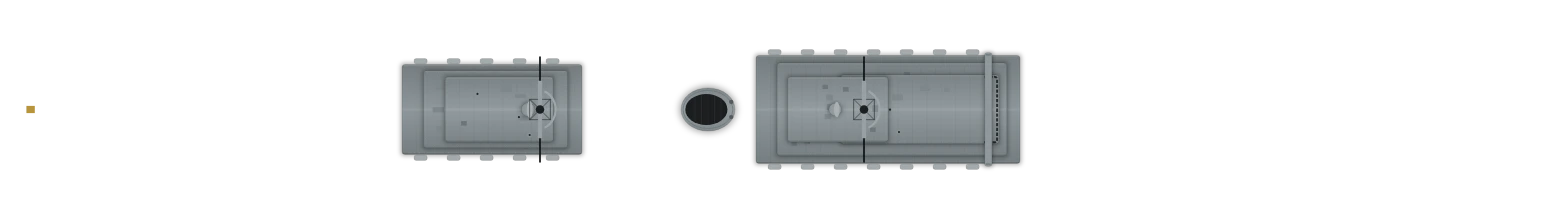
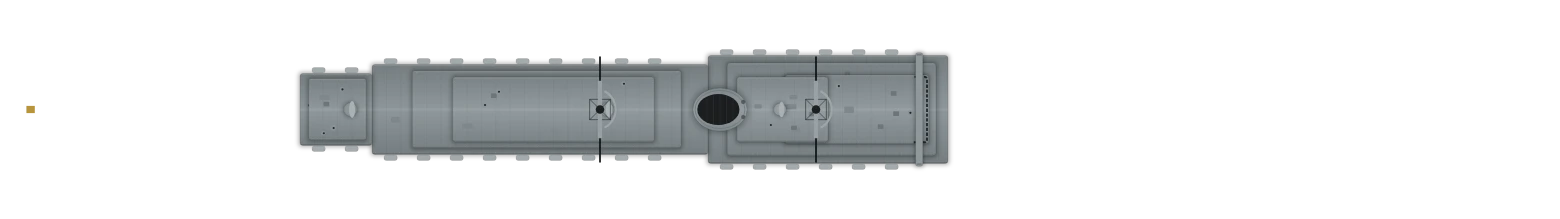
Kirov laid out after the owner's plan of Pyotr Velikiy: one long superstructure, Granit cells forward of it, S-300 and Kinzhal launchers ahead of those, the 130 mm twin and after launchers abaft, helicopter deck right aft
fit_audit 137 standard-fit faults. aux_test, review_test pass.

Claude-Session: https://claude.ai/code/session_0112riLGm4nSjrgsGiYL5DUG

Changed region(s): [[0.1846, 0.2192, 0.6769, 0.7945]]

diff --git a/index.html b/index.html
@@ -672,8 +672,8 @@ const DESIGN_LIST = [
     p: { outline: [[93.2, 0.55], [87.13, 3.11], [84.04, 4.19], [73.33, 7.31], [67.03, 8.61], [60.73, 9.59], [56.44, 10.01], [50.26, 10.37], [-65.6, 10.4], [-76.55, 9.81], [-81.54, 9.37], [-88.8, 8.36], [-91.89, 7.8], [-93.2, 7.34]], sup: [[19, 27, 10, 4], [-13, 38, 12, 2], [-64, 16, 11, 2]], fun: [[-24, 3.5, 2.5, -4.5], [-24, 3.5, 2.5, 4.5]], mast: [[15, 'l'], [-8, 'l']], boats: [[-18, 1]], helo: [[-83, 7]] },
     slots: [sl('M', 63, 0, FWD, 'g130a'), ...pair('V', 37, 7, 'ssmh'), sl('V', -42, 0, ALL, 'sam'), sl('V', -52, 0, ALL, 'sam'), ...pair('A', -55, 7.5, 'ciws'), sl('T', -34, 0, BEAM, 'torh')] },
   { id: 'cg_kirov', cls: 'cg', name: 'Nuclear Battlecruiser', nuc: true, yard: 'neva', dn: 'Admiral Volkov', model: 'Kirov-class battlecruiser', year: 1980, era: 3, L: 252, B: 28.5, t: 24300, kn: 32, td: 1100, armor: 76, crew: 710, price: 540000,
-    p: { outline: [[126.0, 0.75], [125.3, 1.0], [123.18, 2.1], [116.29, 4.89], [109.39, 6.66], [102.07, 8.09], [85.17, 10.41], [75.18, 11.14], [71.09, 11.31], [62.08, 12.2], [41.67, 13.84], [35.34, 14.11], [-62.23, 14.25], [-68.28, 13.99], [-71.52, 13.99], [-77.01, 13.72], [-81.23, 13.31], [-99.53, 12.76], [-104.46, 12.35], [-120.23, 11.87], [-121.35, 11.53], [-124.17, 10.18], [-126.0, 7.99]], bow: .36, run: .2, stern: 't', tw: .55, sup: [[18, 44, 18, 5], [-48, 30, 15, 3]], fun: [[-12, 4.5, 3.6]], mast: [[14, 'l'], [-40, 'l']], helo: [[-108, 9]], boats: [[-22, 1]] },
-    slots: [...pair('V', 73, 4, 'ssmh'), ...pair('V', 63, 4, 'ssmh'), sl('V', 88, 0, ALL, 'sam'), sl('V', 50, 0, ALL, 'sam'), sl('V', -72, 0, ALL, 'sam'), sl('M', -86, 0, AFT, 'g130a'), ...pair('A', 44, 9.4, 'ciws'), ...pair('A', -70, 9.6, 'ciws'), sl('T', -25, 0, BEAM, 'torh')] },
+    p: { outline: [[126.0, 0.75], [125.3, 1.0], [123.18, 2.1], [116.29, 4.89], [109.39, 6.66], [102.07, 8.09], [85.17, 10.41], [75.18, 11.14], [71.09, 11.31], [62.08, 12.2], [41.67, 13.84], [35.34, 14.11], [-62.23, 14.25], [-68.28, 13.99], [-71.52, 13.99], [-77.01, 13.72], [-81.23, 13.31], [-99.53, 12.76], [-104.46, 12.35], [-120.23, 11.87], [-121.35, 11.53], [-124.17, 10.18], [-126.0, 7.99]], bow: .36, run: .2, stern: 't', tw: .55, sup: [[8, 40, 18, 5], [-40, 56, 15, 3], [-74, 12, 12, 2]], fun: [[-10, 4.5, 3.6]], mast: [[6, 'l'], [-30, 'l']], helo: [[-112, 9]], boats: [[-22, 1]] },
+    slots: [...pair('V', 45, 4.5, 'ssmh'), ...pair('V', 35, 4.5, 'ssmh'), sl('V', 80, 0, ALL, 'sam'), sl('V', 60, 0, ALL, 'sam'), sl('V', -97, 0, ALL, 'sam'), sl('M', -86, 0, AFT, 'g130a'), ...pair('A', 31, 9, 'ciws'), ...pair('A', -62, 9, 'ciws'), sl('T', -25, 0, BEAM, 'torh')] },
 ];
 const HULL_K = 1; // overall toughness, tuned against measured battle lengths
 // Armour by place (the owner's go-ahead, 12 Nov 2026): the belt is each design's `armor`; here are the armoured deck,

diff --git a/src/game.html b/src/game.html
@@ -669,8 +669,8 @@ const DESIGN_LIST = [
     p: { outline: [[93.2, 0.55], [87.13, 3.11], [84.04, 4.19], [73.33, 7.31], [67.03, 8.61], [60.73, 9.59], [56.44, 10.01], [50.26, 10.37], [-65.6, 10.4], [-76.55, 9.81], [-81.54, 9.37], [-88.8, 8.36], [-91.89, 7.8], [-93.2, 7.34]], sup: [[19, 27, 10, 4], [-13, 38, 12, 2], [-64, 16, 11, 2]], fun: [[-24, 3.5, 2.5, -4.5], [-24, 3.5, 2.5, 4.5]], mast: [[15, 'l'], [-8, 'l']], boats: [[-18, 1]], helo: [[-83, 7]] },
     slots: [sl('M', 63, 0, FWD, 'g130a'), ...pair('V', 37, 7, 'ssmh'), sl('V', -42, 0, ALL, 'sam'), sl('V', -52, 0, ALL, 'sam'), ...pair('A', -55, 7.5, 'ciws'), sl('T', -34, 0, BEAM, 'torh')] },
   { id: 'cg_kirov', cls: 'cg', name: 'Nuclear Battlecruiser', nuc: true, yard: 'neva', dn: 'Admiral Volkov', model: 'Kirov-class battlecruiser', year: 1980, era: 3, L: 252, B: 28.5, t: 24300, kn: 32, td: 1100, armor: 76, crew: 710, price: 540000,
-    p: { outline: [[126.0, 0.75], [125.3, 1.0], [123.18, 2.1], [116.29, 4.89], [109.39, 6.66], [102.07, 8.09], [85.17, 10.41], [75.18, 11.14], [71.09, 11.31], [62.08, 12.2], [41.67, 13.84], [35.34, 14.11], [-62.23, 14.25], [-68.28, 13.99], [-71.52, 13.99], [-77.01, 13.72], [-81.23, 13.31], [-99.53, 12.76], [-104.46, 12.35], [-120.23, 11.87], [-121.35, 11.53], [-124.17, 10.18], [-126.0, 7.99]], bow: .36, run: .2, stern: 't', tw: .55, sup: [[18, 44, 18, 5], [-48, 30, 15, 3]], fun: [[-12, 4.5, 3.6]], mast: [[14, 'l'], [-40, 'l']], helo: [[-108, 9]], boats: [[-22, 1]] },
-    slots: [...pair('V', 73, 4, 'ssmh'), ...pair('V', 63, 4, 'ssmh'), sl('V', 88, 0, ALL, 'sam'), sl('V', 50, 0, ALL, 'sam'), sl('V', -72, 0, ALL, 'sam'), sl('M', -86, 0, AFT, 'g130a'), ...pair('A', 44, 9.4, 'ciws'), ...pair('A', -70, 9.6, 'ciws'), sl('T', -25, 0, BEAM, 'torh')] },
+    p: { outline: [[126.0, 0.75], [125.3, 1.0], [123.18, 2.1], [116.29, 4.89], [109.39, 6.66], [102.07, 8.09], [85.17, 10.41], [75.18, 11.14], [71.09, 11.31], [62.08, 12.2], [41.67, 13.84], [35.34, 14.11], [-62.23, 14.25], [-68.28, 13.99], [-71.52, 13.99], [-77.01, 13.72], [-81.23, 13.31], [-99.53, 12.76], [-104.46, 12.35], [-120.23, 11.87], [-121.35, 11.53], [-124.17, 10.18], [-126.0, 7.99]], bow: .36, run: .2, stern: 't', tw: .55, sup: [[8, 40, 18, 5], [-40, 56, 15, 3], [-74, 12, 12, 2]], fun: [[-10, 4.5, 3.6]], mast: [[6, 'l'], [-30, 'l']], helo: [[-112, 9]], boats: [[-22, 1]] },
+    slots: [...pair('V', 45, 4.5, 'ssmh'), ...pair('V', 35, 4.5, 'ssmh'), sl('V', 80, 0, ALL, 'sam'), sl('V', 60, 0, ALL, 'sam'), sl('V', -97, 0, ALL, 'sam'), sl('M', -86, 0, AFT, 'g130a'), ...pair('A', 31, 9, 'ciws'), ...pair('A', -62, 9, 'ciws'), sl('T', -25, 0, BEAM, 'torh')] },
 ];
 const HULL_K = 1; // overall toughness, tuned against measured battle lengths
 // Armour by place (the owner's go-ahead, 12 Nov 2026): the belt is each design's `armor`; here are the armoured deck,
